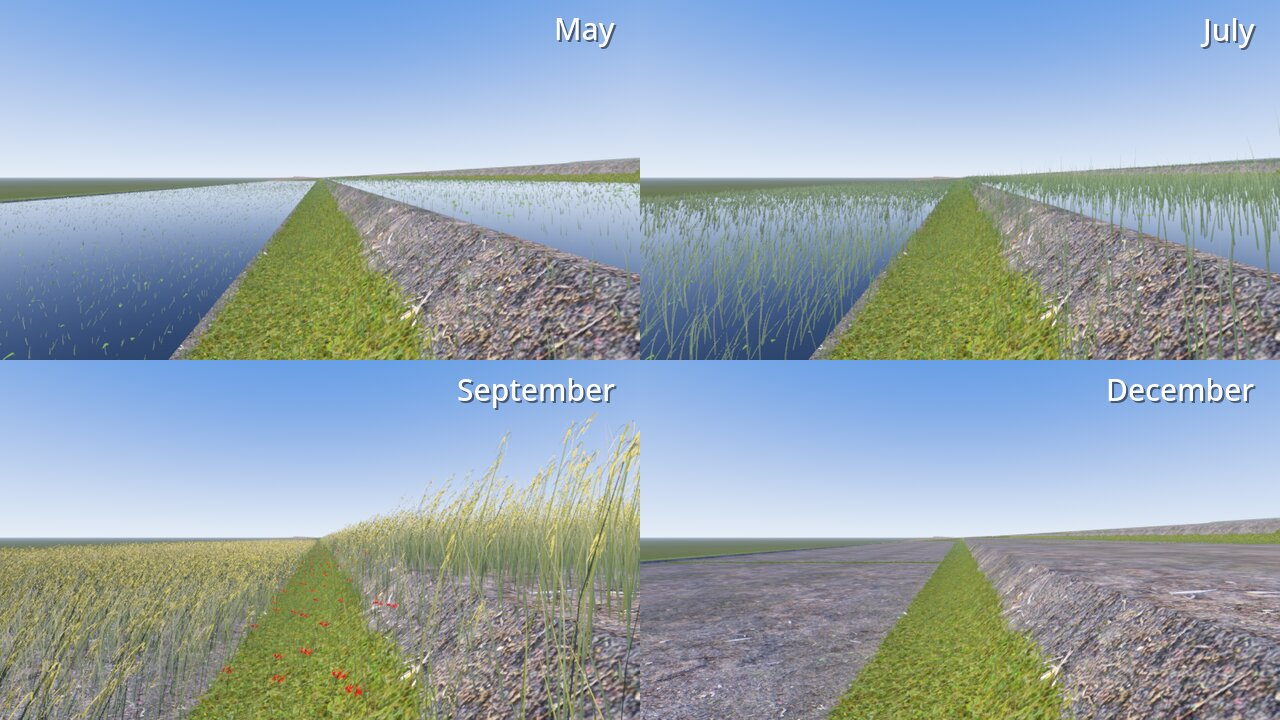
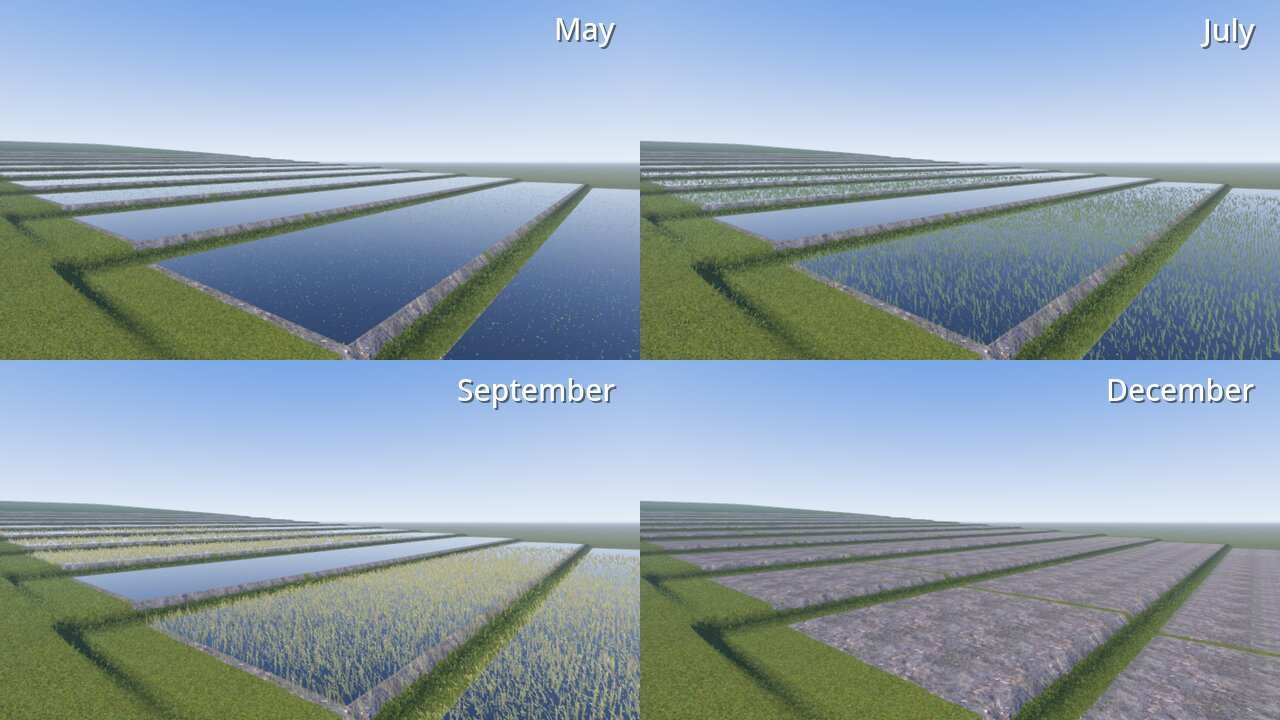
README media: a 43 s video (tulips coming up and blooming, painting with the Grass tools, a species dragged into the Species dialog, rice terraces through a year with the water coming and going, a lotus pond, kochia in the wind), the terraces from the side for the seasons grid, a still of the Grass 

diff --git a/README.md b/README.md
@@ -2,7 +2,7 @@
 
 GPU grass, flowers and seasons for [Terrain3D](https://github.com/TokisanGames/Terrain3D), for Godot 4.
 
-![Waailand: tulip beds, a bulb field by a ditch, rice terraces through a year, a lotus pond, kochia in the wind](media/waailand.webp)
+![Waailand: tulips coming up and blooming through a spring, a bulb field by a ditch, tulips painted with the Grass tools, a species dragged into the Species dialog, rice terraces through a year, a lotus pond, kochia in the wind](media/waailand.webp)
 
 | | | |
 |---|---|---|
@@ -185,6 +185,8 @@ inverts a tool. The panel holds the species library with pictures and hover card
 region fill, and the preview's date, and opens the Species and Ground rules dialogs. Each stroke is one undo step; the
 maps are saved with the scene, one image per region beside Terrain3D's region files.
 
+![The Grass workspace: tulips painted across a lawn with the Species tool, the library on the left, the tools and the brush below](media/painting.jpg)
+
 The panel's **Ground / Water** switch picks the layer the tools paint: Water shows the surface species in the
 library, paints the water maps (their own images, in `<maps_folder>_water`) and lands the stroke where the view ray
 meets the water surface (with Terrain3D Extended 1.1; with 1.0 the stroke lands on the bed under the water). Over
@@ -238,7 +240,7 @@ reads as unpainted and says `pending`.
 
 ## Seasons, the sea, roads and downwash
 
-![Rice terraces through a year: flooded with young rice in May, grown in July, ripe in September, drained in December](media/seasons.jpg)
+![Rice terraces through a year: flooded with young rice in May, grown in July, ripening in September, drained and harvested in December](media/seasons.jpg)
 
 - **Seasons.** `set_date(day)` (0 is 1 January) moves every species through its year: accent colours, heights,
   flowers in bud, bloom and seed. The ground rules can pin a species to a stage or a date.
